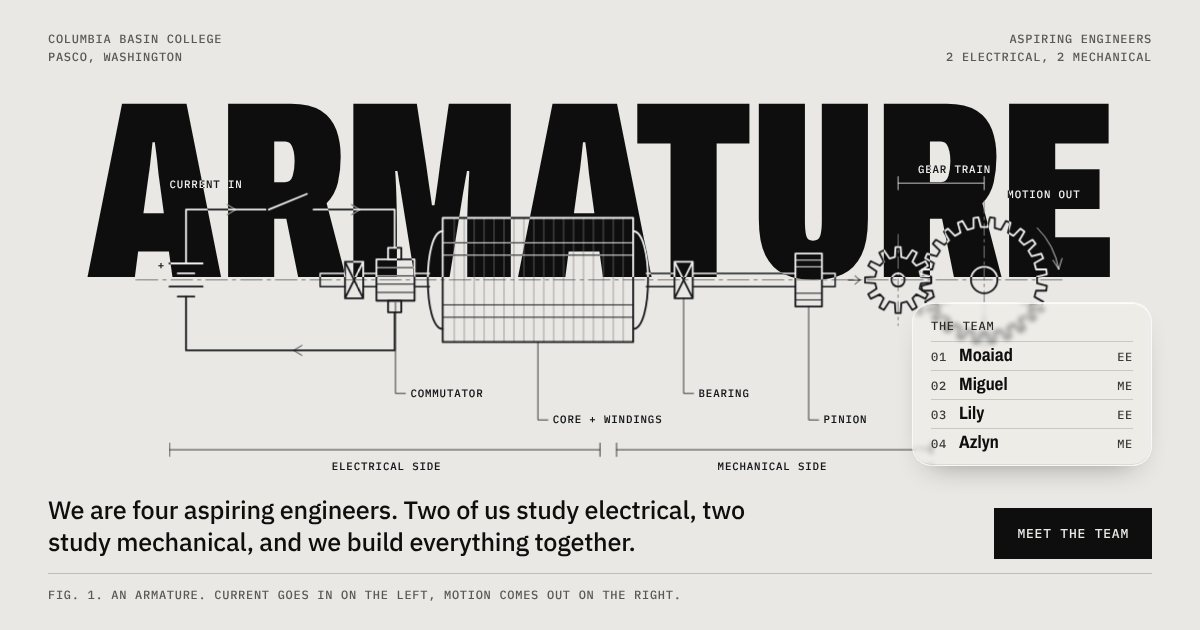
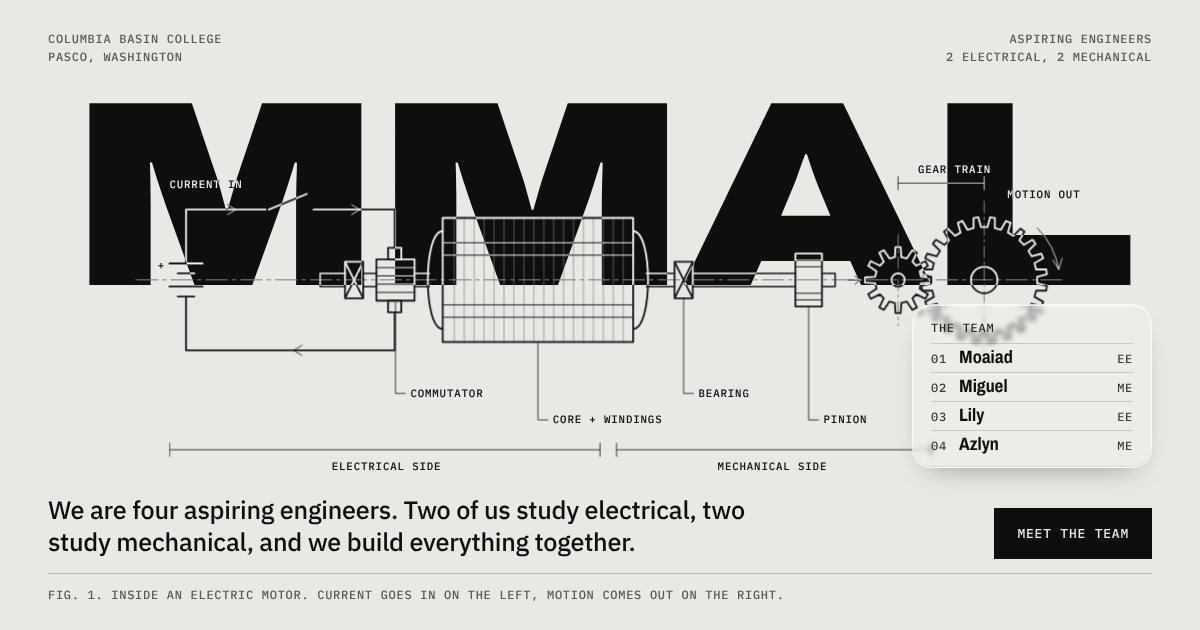
Use MMAL as the team name everywhere

diff --git a/index.html b/index.html
@@ -3,10 +3,10 @@
 <head>
 <meta charset="utf-8">
 <meta name="viewport" content="width=device-width, initial-scale=1">
-<title>Armature | Four aspiring engineers at Columbia Basin College</title>
-<meta name="description" content="Armature is a team of four aspiring engineers at Columbia Basin College in Pasco, Washington. Two of us study electrical engineering and two study mechanical.">
+<title>MMAL | Four aspiring engineers at Columbia Basin College</title>
+<meta name="description" content="MMAL is a team of four aspiring engineers at Columbia Basin College in Pasco, Washington. Two of us study electrical engineering and two study mechanical.">
 <meta property="og:type" content="website">
-<meta property="og:title" content="Armature: four aspiring engineers">
+<meta property="og:title" content="MMAL: four aspiring engineers">
 <meta property="og:description" content="Two electrical, two mechanical. Columbia Basin College, Pasco, WA.">
 <meta property="og:image" content="https://moaiad-eljack.github.io/mmal-portfolio/img/og.jpg">
 <meta property="og:url" content="https://moaiad-eljack.github.io/mmal-portfolio/">
@@ -21,7 +21,7 @@
 <a class="skip" href="#team">Skip to the team</a>
 
 <header class="nav glass" data-glass="12">
-  <a class="nav__name" href="#top" aria-label="Armature, back to top">Armature</a>
+  <a class="nav__name" href="#top" aria-label="MMAL, back to top">MMAL</a>
   <nav aria-label="Team members">
     <div class="idx"><ol><li><a class="idx__c" href="#p1"><b>01</b><span>Moaiad</span></a></li><li><a class="idx__c" href="#p2"><b>02</b><span>Miguel</span></a></li><li><a class="idx__c" href="#p3"><b>03</b><span>Lily</span></a></li><li><a class="idx__c" href="#p4"><b>04</b><span>Azlyn</span></a></li></ol><div class="idx__bar" aria-hidden="true"><span class="idx__c"><b>01</b><span>Moaiad</span></span><span class="idx__c"><b>02</b><span>Miguel</span></span><span class="idx__c"><b>03</b><span>Lily</span></span><span class="idx__c"><b>04</b><span>Azlyn</span></span></div></div>
   </nav>
@@ -37,8 +37,8 @@
   </div>
 
   <div class="hero__stage">
-    <h1 class="word">Armature</h1>
-    <svg class="rig" viewBox="0 0 1200 470" role="img" aria-labelledby="rigt"><title id="rigt">Technical line drawing of a motor armature. On the left a battery and switch feed current through brushes into the commutator and windings. On the right the shaft turns a pinion and a larger gear.</title><g class="draw" fill="none" stroke="#fff" stroke-width="2.2" stroke-linecap="round" stroke-linejoin="round"><path pathLength="1" style="--d:0" d="M80 215H120M90 227H110M80 243H120M90 255H110"/><path pathLength="1" style="--d:0.1" d="M100 215V150H196"/><path pathLength="1" style="--d:0.2" d="M200 150L246 131"/><path pathLength="1" style="--d:0.2" d="M254 150H352V196"/><path pathLength="1" style="--d:0.3" d="M100 255V320H352V274"/><path pathLength="1" style="--d:0.4" d="M344 196H360V210H344ZM344 260H360V274H344Z"/><path pathLength="1" style="--d:0.5" d="M262 227H292M262 243H292M262 227V243M314 227H330M314 243H330M376 227H394M376 243H394M656 227H690M656 243H690M712 227H836M712 243H836M868 227H884M868 243H884M884 227V243" stroke-width="1.8"/><path pathLength="1" style="--d:0.5" d="M292 213H314V257H292ZM292 213L314 257M314 213L292 257"/><path pathLength="1" style="--d:0.8" d="M690 213H712V257H690ZM690 213L712 257M712 213L690 257"/><path pathLength="1" style="--d:0.6" d="M330 210H376V260H330Z"/><path pathLength="1" style="--d:0.6" d="M330 220H376M330 230H376M330 240H376M330 250H376" stroke-width="1.2"/><path pathLength="1" style="--d:0.7" d="M410 176C386 176 386 294 410 294"/><path pathLength="1" style="--d:0.7" d="M410 160H640V310H410Z"/><path pathLength="1" style="--d:0.8" d="M640 176C664 176 664 294 640 294"/><path pathLength="1" style="--d:0.8" d="M410 190H640M410 205H640M410 265H640M410 280H640" stroke-width="1.2"/><path pathLength="1" style="--d:0.9" d="M836 203H868V267H836Z"/><path pathLength="1" style="--d:0.9" d="M836 211H868M836 219H868M836 251H868M836 259H868" stroke-width="1.2"/><path pathLength="1" style="--d:1" d="M987.7 231.1L999.9 231.9L999.9 238.1L987.7 238.9L986 245.4L996.1 252.2L993 257.7L982 252.3L977.3 257L982.7 268L977.2 271.1L970.4 261L963.9 262.7L963.1 274.9L956.9 274.9L956.1 262.7L949.6 261L942.8 271.1L937.3 268L942.7 257L938 252.3L927 257.7L923.9 252.2L934 245.4L932.3 238.9L920.1 238.1L920.1 231.9L932.3 231.1L934 224.6L923.9 217.8L927 212.3L938 217.7L942.7 213L937.3 202L942.8 198.9L949.6 209L956.1 207.3L956.9 195.1L963.1 195.1L963.9 207.3L970.4 209L977.2 198.9L982.7 202L977.3 213L982 217.7L993 212.3L996.1 217.8L986 224.6Z"/><path pathLength="1" style="--d:1.1" d="M1127.9 238.9L1139.7 242L1138.9 247.9L1126.7 247.8L1124.7 255.3L1135.3 261.3L1133 266.8L1121.3 263.6L1117.4 270.3L1126.1 278.9L1122.4 283.6L1111.9 277.4L1106.4 282.9L1112.6 293.4L1107.9 297.1L1099.3 288.4L1092.6 292.3L1095.8 304L1090.3 306.3L1084.3 295.7L1076.8 297.7L1076.9 309.9L1071 310.7L1067.9 298.9L1060.1 298.9L1057 310.7L1051.1 309.9L1051.2 297.7L1043.7 295.7L1037.7 306.3L1032.2 304L1035.4 292.3L1028.7 288.4L1020.1 297.1L1015.4 293.4L1021.6 282.9L1016.1 277.4L1005.6 283.6L1001.9 278.9L1010.6 270.3L1006.7 263.6L995 266.8L992.7 261.3L1003.3 255.3L1001.3 247.8L989.1 247.9L988.3 242L1000.1 238.9L1000.1 231.1L988.3 228L989.1 222.1L1001.3 222.2L1003.3 214.7L992.7 208.7L995 203.2L1006.7 206.4L1010.6 199.7L1001.9 191.1L1005.6 186.4L1016.1 192.6L1021.6 187.1L1015.4 176.6L1020.1 172.9L1028.7 181.6L1035.4 177.7L1032.2 166L1037.7 163.7L1043.7 174.3L1051.2 172.3L1051.1 160.1L1057 159.3L1060.1 171.1L1067.9 171.1L1071 159.3L1076.9 160.1L1076.8 172.3L1084.3 174.3L1090.3 163.7L1095.8 166L1092.6 177.7L1099.3 181.6L1107.9 172.9L1112.6 176.6L1106.4 187.1L1111.9 192.6L1122.4 186.4L1126.1 191.1L1117.4 199.7L1121.3 206.4L1133 203.2L1135.3 208.7L1124.7 214.7L1126.7 222.2L1138.9 222.1L1139.7 228L1127.9 231.1Z"/><path pathLength="1" style="--d:1.2" d="M968 235A8 8 0 1 0 952 235A8 8 0 1 0 968 235M1080 235A16 16 0 1 0 1048 235A16 16 0 1 0 1080 235"/></g><g class="thin" fill="none" stroke="#fff" stroke-width="1" stroke-linecap="round" stroke-linejoin="round"><path d="M424 160V310M436 160V310M448 160V310M460 160V310M472 160V310M484 160V310M496 160V310M508 160V310M520 160V310M532 160V310M544 160V310M556 160V310M568 160V310M580 160V310M592 160V310M604 160V310M616 160V310M628 160V310" opacity=".4"/><path d="M40 235H1160" stroke-dasharray="26 6 4 6" opacity=".6"/><path d="M960 180V290M1064 140V330" stroke-dasharray="14 5 3 5" opacity=".6"/><path d="M150 144L160 150L150 156M300 144L310 150L300 156M240 326L230 320L240 314"/><path d="M900 235H914M908 230L914 235L908 240"/><path d="M1128 172A92 92 0 0 1 1154 222M1154 222L1147 211M1154 222L1158 209"/><path d="M960 118H1064M960 110V126M1064 110V126"/><path d="M353 262V372H365M525 310V404H537M701 257V372H713M852 267V404H864"/><path d="M80 440H600M80 432V448M600 432V448M620 440H1000M620 432V448M1000 432V448"/></g><g class="labels" fill="#fff" stroke="none"><text x="80" y="124">CURRENT IN</text><text x="371" y="376">COMMUTATOR</text><text x="543" y="408">CORE + WINDINGS</text><text x="719" y="376">BEARING</text><text x="870" y="408">PINION</text><text x="984" y="106">GEAR TRAIN</text><text x="1092" y="136">MOTION OUT</text><text x="276" y="464">ELECTRICAL SIDE</text><text x="742" y="464">MECHANICAL SIDE</text><text x="66" y="222">+</text></g></svg>
+    <h1 class="word">MMAL</h1>
+    <svg class="rig" viewBox="0 0 1200 470" role="img" aria-labelledby="rigt"><title id="rigt">Technical line drawing of the inside of an electric motor. On the left a battery and switch feed current through brushes into the commutator and windings. On the right the shaft turns a pinion and a larger gear.</title><g class="draw" fill="none" stroke="#fff" stroke-width="2.2" stroke-linecap="round" stroke-linejoin="round"><path pathLength="1" style="--d:0" d="M80 215H120M90 227H110M80 243H120M90 255H110"/><path pathLength="1" style="--d:0.1" d="M100 215V150H196"/><path pathLength="1" style="--d:0.2" d="M200 150L246 131"/><path pathLength="1" style="--d:0.2" d="M254 150H352V196"/><path pathLength="1" style="--d:0.3" d="M100 255V320H352V274"/><path pathLength="1" style="--d:0.4" d="M344 196H360V210H344ZM344 260H360V274H344Z"/><path pathLength="1" style="--d:0.5" d="M262 227H292M262 243H292M262 227V243M314 227H330M314 243H330M376 227H394M376 243H394M656 227H690M656 243H690M712 227H836M712 243H836M868 227H884M868 243H884M884 227V243" stroke-width="1.8"/><path pathLength="1" style="--d:0.5" d="M292 213H314V257H292ZM292 213L314 257M314 213L292 257"/><path pathLength="1" style="--d:0.8" d="M690 213H712V257H690ZM690 213L712 257M712 213L690 257"/><path pathLength="1" style="--d:0.6" d="M330 210H376V260H330Z"/><path pathLength="1" style="--d:0.6" d="M330 220H376M330 230H376M330 240H376M330 250H376" stroke-width="1.2"/><path pathLength="1" style="--d:0.7" d="M410 176C386 176 386 294 410 294"/><path pathLength="1" style="--d:0.7" d="M410 160H640V310H410Z"/><path pathLength="1" style="--d:0.8" d="M640 176C664 176 664 294 640 294"/><path pathLength="1" style="--d:0.8" d="M410 190H640M410 205H640M410 265H640M410 280H640" stroke-width="1.2"/><path pathLength="1" style="--d:0.9" d="M836 203H868V267H836Z"/><path pathLength="1" style="--d:0.9" d="M836 211H868M836 219H868M836 251H868M836 259H868" stroke-width="1.2"/><path pathLength="1" style="--d:1" d="M987.7 231.1L999.9 231.9L999.9 238.1L987.7 238.9L986 245.4L996.1 252.2L993 257.7L982 252.3L977.3 257L982.7 268L977.2 271.1L970.4 261L963.9 262.7L963.1 274.9L956.9 274.9L956.1 262.7L949.6 261L942.8 271.1L937.3 268L942.7 257L938 252.3L927 257.7L923.9 252.2L934 245.4L932.3 238.9L920.1 238.1L920.1 231.9L932.3 231.1L934 224.6L923.9 217.8L927 212.3L938 217.7L942.7 213L937.3 202L942.8 198.9L949.6 209L956.1 207.3L956.9 195.1L963.1 195.1L963.9 207.3L970.4 209L977.2 198.9L982.7 202L977.3 213L982 217.7L993 212.3L996.1 217.8L986 224.6Z"/><path pathLength="1" style="--d:1.1" d="M1127.9 238.9L1139.7 242L1138.9 247.9L1126.7 247.8L1124.7 255.3L1135.3 261.3L1133 266.8L1121.3 263.6L1117.4 270.3L1126.1 278.9L1122.4 283.6L1111.9 277.4L1106.4 282.9L1112.6 293.4L1107.9 297.1L1099.3 288.4L1092.6 292.3L1095.8 304L1090.3 306.3L1084.3 295.7L1076.8 297.7L1076.9 309.9L1071 310.7L1067.9 298.9L1060.1 298.9L1057 310.7L1051.1 309.9L1051.2 297.7L1043.7 295.7L1037.7 306.3L1032.2 304L1035.4 292.3L1028.7 288.4L1020.1 297.1L1015.4 293.4L1021.6 282.9L1016.1 277.4L1005.6 283.6L1001.9 278.9L1010.6 270.3L1006.7 263.6L995 266.8L992.7 261.3L1003.3 255.3L1001.3 247.8L989.1 247.9L988.3 242L1000.1 238.9L1000.1 231.1L988.3 228L989.1 222.1L1001.3 222.2L1003.3 214.7L992.7 208.7L995 203.2L1006.7 206.4L1010.6 199.7L1001.9 191.1L1005.6 186.4L1016.1 192.6L1021.6 187.1L1015.4 176.6L1020.1 172.9L1028.7 181.6L1035.4 177.7L1032.2 166L1037.7 163.7L1043.7 174.3L1051.2 172.3L1051.1 160.1L1057 159.3L1060.1 171.1L1067.9 171.1L1071 159.3L1076.9 160.1L1076.8 172.3L1084.3 174.3L1090.3 163.7L1095.8 166L1092.6 177.7L1099.3 181.6L1107.9 172.9L1112.6 176.6L1106.4 187.1L1111.9 192.6L1122.4 186.4L1126.1 191.1L1117.4 199.7L1121.3 206.4L1133 203.2L1135.3 208.7L1124.7 214.7L1126.7 222.2L1138.9 222.1L1139.7 228L1127.9 231.1Z"/><path pathLength="1" style="--d:1.2" d="M968 235A8 8 0 1 0 952 235A8 8 0 1 0 968 235M1080 235A16 16 0 1 0 1048 235A16 16 0 1 0 1080 235"/></g><g class="thin" fill="none" stroke="#fff" stroke-width="1" stroke-linecap="round" stroke-linejoin="round"><path d="M424 160V310M436 160V310M448 160V310M460 160V310M472 160V310M484 160V310M496 160V310M508 160V310M520 160V310M532 160V310M544 160V310M556 160V310M568 160V310M580 160V310M592 160V310M604 160V310M616 160V310M628 160V310" opacity=".4"/><path d="M40 235H1160" stroke-dasharray="26 6 4 6" opacity=".6"/><path d="M960 180V290M1064 140V330" stroke-dasharray="14 5 3 5" opacity=".6"/><path d="M150 144L160 150L150 156M300 144L310 150L300 156M240 326L230 320L240 314"/><path d="M900 235H914M908 230L914 235L908 240"/><path d="M1128 172A92 92 0 0 1 1154 222M1154 222L1147 211M1154 222L1158 209"/><path d="M960 118H1064M960 110V126M1064 110V126"/><path d="M353 262V372H365M525 310V404H537M701 257V372H713M852 267V404H864"/><path d="M80 440H600M80 432V448M600 432V448M620 440H1000M620 432V448M1000 432V448"/></g><g class="labels" fill="#fff" stroke="none"><text x="80" y="124">CURRENT IN</text><text x="371" y="376">COMMUTATOR</text><text x="543" y="408">CORE + WINDINGS</text><text x="719" y="376">BEARING</text><text x="870" y="408">PINION</text><text x="984" y="106">GEAR TRAIN</text><text x="1092" y="136">MOTION OUT</text><text x="276" y="464">ELECTRICAL SIDE</text><text x="742" y="464">MECHANICAL SIDE</text><text x="66" y="222">+</text></g></svg>
     <aside class="roster glass" data-glass="20" aria-label="The team at a glance">
       <p class="mono roster__k">The team</p>
       <ol><li><b class="mono">01</b><span>Moaiad</span><em class="mono">EE</em></li><li><b class="mono">02</b><span>Miguel</span><em class="mono">ME</em></li><li><b class="mono">03</b><span>Lily</span><em class="mono">EE</em></li><li><b class="mono">04</b><span>Azlyn</span><em class="mono">ME</em></li></ol>
@@ -49,12 +49,12 @@
     <p class="lead">We are four aspiring engineers. Two of us study electrical, two study mechanical, and we build everything together.</p>
     <div class="cta"><a class="btn" href="#team">Meet the team</a></div>
   </div>
-  <p class="fig mono">Fig. 1. An armature. Current goes in on the left, motion comes out on the right.</p>
+  <p class="fig mono">Fig. 1. Inside an electric motor. Current goes in on the left, motion comes out on the right.</p>
 </section>
 
 <section class="def reveal" aria-label="About the name">
-  <p class="def__w"><span class="def__h">ar·ma·ture</span> <span class="mono">noun</span></p>
-  <p class="def__t">The spinning heart of an electric motor. It is the one part where electricity turns into motion, which is exactly where our two halves meet.</p>
+  <p class="def__w"><span class="def__h">M.M.A.L</span> <span class="mono">our name</span></p>
+  <p class="def__t">Four first names, one letter each: <b>M</b>oaiad, <b>M</b>iguel, <b>A</b>zlyn and <b>L</b>ily. Two of us are on the electrical side and two on the mechanical side.</p>
 </section>
 
 <section class="team" id="team" aria-label="The team">
@@ -128,7 +128,7 @@
   <p class="foot__s reveal">Our first build is under way. It gets its own page here when it is finished.</p>
   <a class="btn reveal" href="https://github.com/moaiad-eljack/rc-gas-to-electric">Find us on GitHub</a>
   <div class="foot__meta mono">
-    <span>Armature. Columbia Basin College, Pasco, WA.</span>
+    <span>MMAL. Columbia Basin College, Pasco, WA.</span>
     <span>Photos of the team are coming.</span>
     <span>Last updated November 2026.</span>
   </div>

diff --git a/styles.css b/styles.css
@@ -59,7 +59,7 @@ a.idx__c:hover{opacity:.6}
 .hero__meta{display:flex;justify-content:space-between;color:var(--mute)}
 .hero__meta .r{text-align:right}
 .hero__stage{position:relative;display:grid;place-items:center;min-height:max(38vw,480px)}
-.word{font:900 21vw/.8 var(--disp);font-stretch:62%;letter-spacing:-.012em;text-transform:uppercase;white-space:nowrap;user-select:none;will-change:transform}
+.word{--wf:22vw;font:900 var(--wf)/.8 var(--disp);font-stretch:125%;letter-spacing:-.02em;text-transform:uppercase;white-space:nowrap;user-select:none;will-change:transform}
 .rig{position:absolute;left:50%;top:50%;width:min(90%,1220px);transform:translate(-50%,-50%);mix-blend-mode:difference;overflow:visible}
 .rig .labels text{font:500 13px var(--mono);letter-spacing:.08em}
 .js .rig .draw>*{stroke-dasharray:1;stroke-dashoffset:1;animation:draw 1.5s var(--ease) forwards;animation-delay:calc(var(--d)*1s + .15s)}
@@ -67,7 +67,7 @@ a.idx__c:hover{opacity:.6}
 @keyframes draw{to{stroke-dashoffset:0}}
 @keyframes fade{to{opacity:1}}
 
-.roster{position:absolute;right:0;top:calc(50% + 7.2vw - 24px);width:min(240px,70vw);padding:34px 18px 8px;border-radius:20px}
+.roster{position:absolute;right:0;top:calc(50% + 22vw*.343 - 24px);width:min(240px,70vw);padding:34px 18px 8px;border-radius:20px}
 .roster__k{color:#2b2b29;margin-bottom:6px}
 .roster li{display:grid;grid-template-columns:28px 1fr auto;align-items:baseline;padding:4px 0;border-top:1px solid rgba(14,14,14,.16)}
 .roster li span{font:700 18px/1.1 var(--disp);font-stretch:80%}
@@ -86,6 +86,7 @@ a.idx__c:hover{opacity:.6}
 .def__h{font:800 clamp(38px,6vw,84px)/.9 var(--disp);font-stretch:70%;letter-spacing:-.01em;margin-right:14px}
 .def__w .mono{color:var(--mute)}
 .def__t{font-size:clamp(19px,2vw,25px);line-height:1.35;max-width:26em}
+.def__t b{font-weight:600;border-bottom:2px solid var(--red)}
 
 /* team. Without script (or with reduced motion) these are four plain full height sections. */
 .panel{position:relative;min-height:100svh;background:var(--paper);color:var(--ink);overflow:hidden}
@@ -160,7 +161,7 @@ a.idx__c:hover{opacity:.6}
   .nav__gh{padding:12px 12px}
   .hero{min-height:0;padding-top:88px}
   .hero__stage{min-height:0;padding:6vw 0 0;display:block}
-  .word{font-size:21.4vw}
+  .word{font-size:22vw;--wf:22vw}
   .rig{position:relative;left:0;top:0;transform:none;width:100%;margin-top:-12vw}
   .rig .labels,.rig .thin{display:none}
   .btn{padding:16px 18px}
